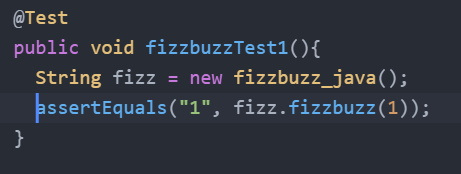
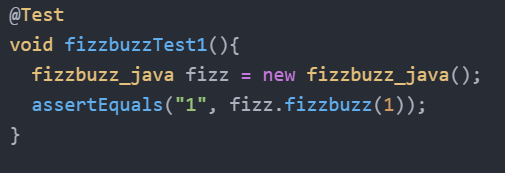
Made test 1 work and refactored code

diff --git a/lab04/fizzbuss_java/test/fizzbuzzJavaTest.java b/lab04/fizzbuss_java/test/fizzbuzzJavaTest.java
@@ -3,11 +3,11 @@ import static org.junit.jupiter.api.Assertions.assertThrows;
 
 import org.junit.jupiter.api.Test;
 
-class fizzbuzz_java_test{
+class fizzbuzzJavaTest{
 
   @Test
-  public void fizzbuzzTest1(){
-    String fizz = new fizzbuzz_java();
+  void fizzbuzzTest1(){
+    fizzbuzz_java fizz = new fizzbuzz_java();
     assertEquals("1", fizz.fizzbuzz(1));
   }
 

diff --git a/lab04/fizzbuss_java/src/fizzbuzz_java.java b/lab04/fizzbuss_java/src/fizzbuzz_java.java
@@ -1,8 +1,9 @@
 class fizzbuzz_java{
 
-/*
-  public static String fizzbuzz(){
-    return "";
-  }*/
+  public static String fizzbuzz(int n){
+    if(n == 1){
+      return "1";
+    }
+  }
 
 }
